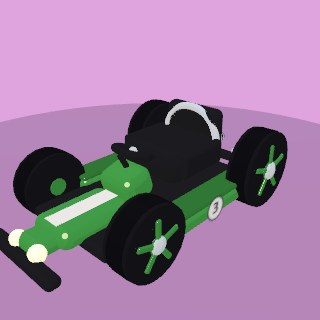
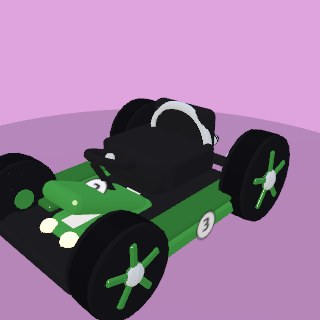
Kart nose: short stub + raked cowl with the number, like a real go-kart
The restyled karts still carried long full-length noses. Per the
reference: the nose is now a LOW STUB that barely out-reaches the front
wheels (per-style `snout` reach replaces the nose/noseZ/tipZ trio), with
a raked cowl sweeping up to the steering wheel wearing the number
roundel on its face, small accent winglets flanking it, the racing
stripe on the stub, headlights on the stub tip, and a wide wrap-around
front bumper guarding the front wheels. Van hood untouched. Catalog
shots regenerated.

Claude-Session: https://claude.ai/code/session_017fyz1DfGtQ1NoLSq3UX5Bd

Changed region(s): [[0.0, 0.2812, 1.0, 1.0]]

diff --git a/src/models.js b/src/models.js
@@ -1234,11 +1234,13 @@ export function createKartModel(bodyColor = 0xe53935, opts = {}) {
   //   speedster — longest needle nose, low slicks, twin swept rocket tail-fins
   //   moto      — a narrow café-racer with a tank, forks, and training wheels
   //   van       — an open-top minivan (roof cut away so the cat pokes out)
+  // Kart styles use `snout` — how far the short lower nose reaches (real karts
+  // barely out-reach their front wheels); the van keeps its long-hood fields.
   const STYLES = [
-    { nose: 1.7, noseZ: 2.0, tipZ: 2.95, wing: "big", tire: 1.0, hoop: false },
-    { nose: 1.25, noseZ: 1.85, tipZ: 2.6, wing: "lip", tire: 1.06, hoop: false },
-    { nose: 1.0, noseZ: 1.75, tipZ: 2.45, wing: "none", tire: 1.2, hoop: true },
-    { nose: 1.95, noseZ: 2.15, tipZ: 3.2, wing: "fin", tire: 0.94, hoop: false },
+    { snout: 1.55, wing: "big", tire: 1.0, hoop: false },
+    { snout: 1.45, wing: "lip", tire: 1.06, hoop: false },
+    { snout: 1.3, wing: "none", tire: 1.2, hoop: true },
+    { snout: 1.8, wing: "fin", tire: 0.94, hoop: false },
     { body: "moto", wing: "none", tire: 1.12, hoop: false },
     { body: "van", nose: 1.05, noseZ: 1.9, tipZ: 2.55, hlZ: 2.72, wing: "none", tire: 1.05, hoop: false },
   ];
@@ -1406,21 +1408,34 @@ export function createKartModel(bodyColor = 0xe53935, opts = {}) {
         rail.rotation.x = Math.PI / 2;
         rail.position.set(sx * 1.02, 0.34, 0.15);
       }
-      // Narrow tapering nose cone in body paint (style sets its length).
-      const nose = add(new THREE.Mesh(rbox(0.95, 0.4, st.nose + 0.5, 0.2), paint));
-      nose.position.set(0, 0.56, st.noseZ);
-      const noseTip = add(new THREE.Mesh(rbox(0.62, 0.34, 0.9, 0.26), paint));
-      noseTip.position.set(0, 0.52, st.tipZ);
-      // Cowl rising from the nose to the wheel, with the column beneath it.
-      const cowl = add(new THREE.Mesh(rbox(0.85, 0.62, 0.7, 0.2), paint));
-      cowl.position.set(0, 0.84, 0.74);
-      cowl.rotation.x = 0.3;
+      // SHORT nose, real-kart shape: a low stub barely past the front wheels,
+      // and a raked cowl sweeping up from it to the steering wheel — with the
+      // number roundel painted on the cowl's face, like the reference kart.
+      const snout = st.snout ?? 1.55;
+      const stub = add(new THREE.Mesh(rbox(0.95, 0.3, 1.5, 0.15), paint));
+      stub.position.set(0, 0.46, snout - 0.55);
+      const stubTip = add(new THREE.Mesh(rbox(0.7, 0.26, 0.5, 0.13), paint));
+      stubTip.position.set(0, 0.44, snout + 0.12);
+      const cowl = add(new THREE.Mesh(rbox(0.88, 0.3, 1.6, 0.15), paint));
+      cowl.position.set(0, 0.82, 0.85);
+      cowl.rotation.x = -0.42; // sweeps up toward the wheel
+      // Number roundel lying on the cowl's raked face.
+      const cowlNum = new THREE.Mesh(new THREE.PlaneGeometry(0.52, 0.52), numMat);
+      cowlNum.position.set(0, 0.99, 0.93);
+      cowlNum.rotation.x = -(Math.PI / 2 - 0.42); // flush on the raked panel
+      roundels.push(cowlNum);
+      // Little accent winglets flanking the cowl (the reference's red fins).
+      for (const sx of [-1, 1]) {
+        const winglet = add(new THREE.Mesh(rbox(0.36, 0.12, 0.52, 0.05), accent));
+        winglet.position.set(sx * 0.64, 0.66, 1.2);
+      }
       const column = add(new THREE.Mesh(new THREE.CylinderGeometry(0.06, 0.06, 0.8, 8), dark));
       column.position.set(0, 1.08, 0.68);
       column.rotation.x = 0.5;
-      // Wrap-around bumpers, front and rear (dark, low, at rail height).
-      const bumperF = add(new THREE.Mesh(rbox(1.85, 0.2, 0.28, 0.13), dark));
-      bumperF.position.set(0, 0.4, st.tipZ + 0.5); // tucked against the nose tip
+      // Wrap-around bumpers, front and rear (dark, low, at rail height). The
+      // front one is wide and close, guarding the front wheels like the real thing.
+      const bumperF = add(new THREE.Mesh(rbox(2.3, 0.2, 0.3, 0.14), dark));
+      bumperF.position.set(0, 0.4, snout + 0.5);
       const bumperR = add(new THREE.Mesh(rbox(1.85, 0.2, 0.26, 0.12), dark));
       bumperR.position.set(0, 0.42, -2.35);
       // Low side pods between the wheels, accent-capped, wearing the roundels.
@@ -1431,10 +1446,10 @@ export function createKartModel(bodyColor = 0xe53935, opts = {}) {
         podCap.position.set(sx * 1.18, 0.66, -0.1);
       }
       addRoundels(1.46, 0.5, -0.1, 0.5);
-      // Racing stripe down the nose cone.
-      const noseStripe = add(new THREE.Mesh(new THREE.PlaneGeometry(0.34, st.nose + 0.3), stripe));
+      // Racing stripe down the low nose stub.
+      const noseStripe = add(new THREE.Mesh(new THREE.PlaneGeometry(0.32, 1.4), stripe));
       noseStripe.rotation.x = -Math.PI / 2;
-      noseStripe.position.set(0, 0.765, st.noseZ);
+      noseStripe.position.set(0, 0.611, snout - 0.55);
       // Bare bucket seat: tall back + side bolsters (nothing to sink into now).
       const seatBack = add(new THREE.Mesh(rbox(1.35, 1.05, 0.34, 0.16), dark));
       seatBack.position.set(0, 1.38, -1.26);
@@ -1532,10 +1547,10 @@ export function createKartModel(bodyColor = 0xe53935, opts = {}) {
       hlParts.push(light);
     }
   } else {
-    // Kart lights ride the narrow nose cone, just behind its tip.
+    // Kart lights sit on the short nose stub's tip.
     for (const sx of [-1, 1]) {
       const light = new THREE.Mesh(new THREE.SphereGeometry(0.15, 12, 12), glass);
-      light.position.set(sx * 0.28, 0.54, st.tipZ + 0.38);
+      light.position.set(sx * 0.26, 0.5, (st.snout ?? 1.55) + 0.3);
       hlParts.push(light);
     }
   }
